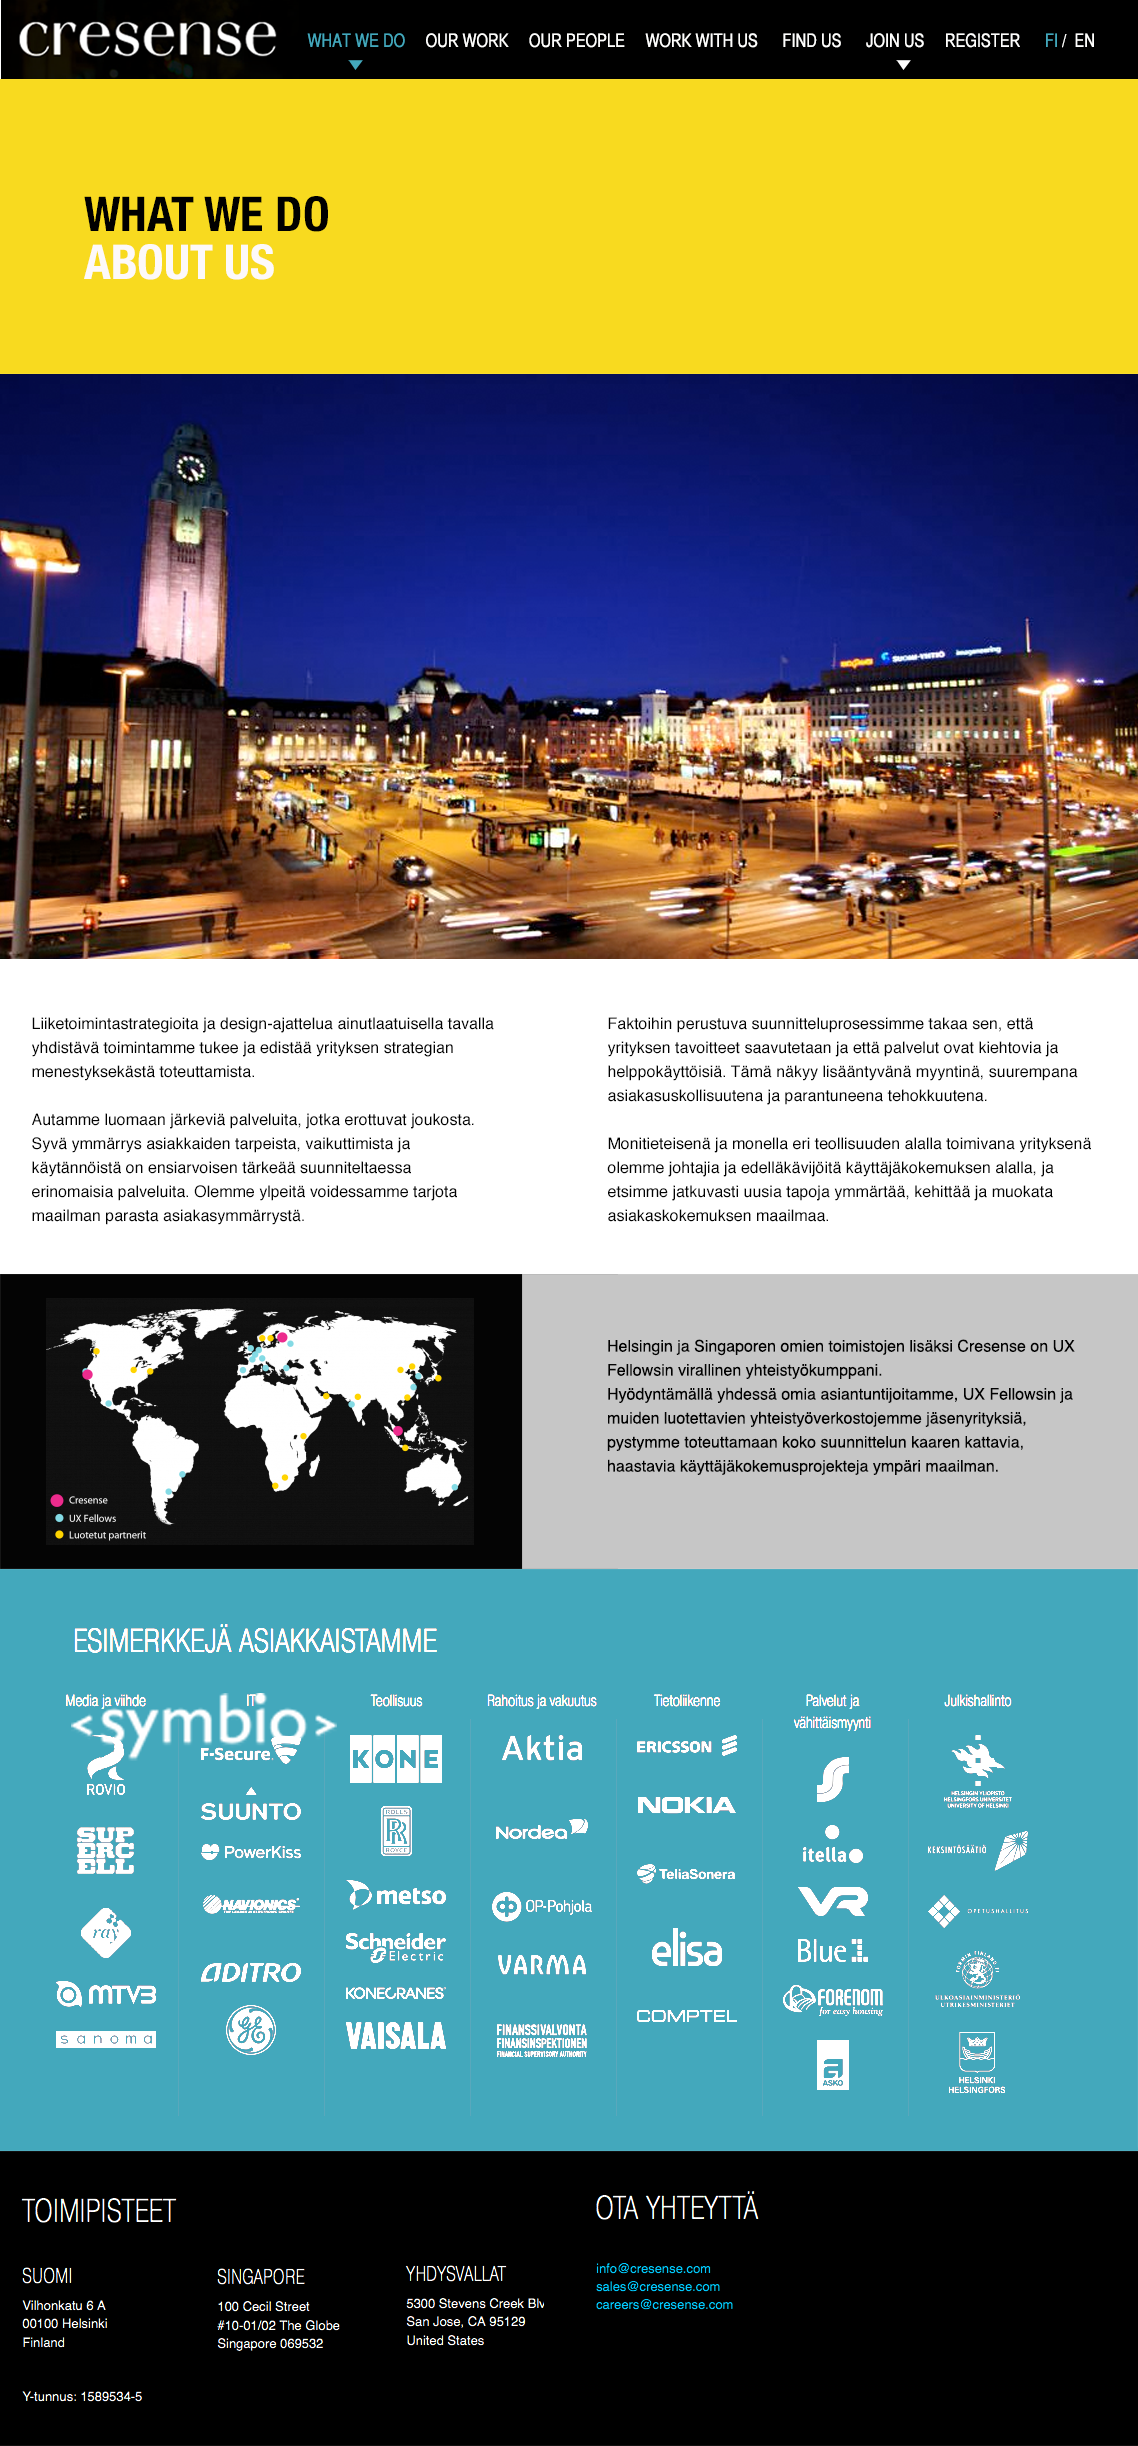
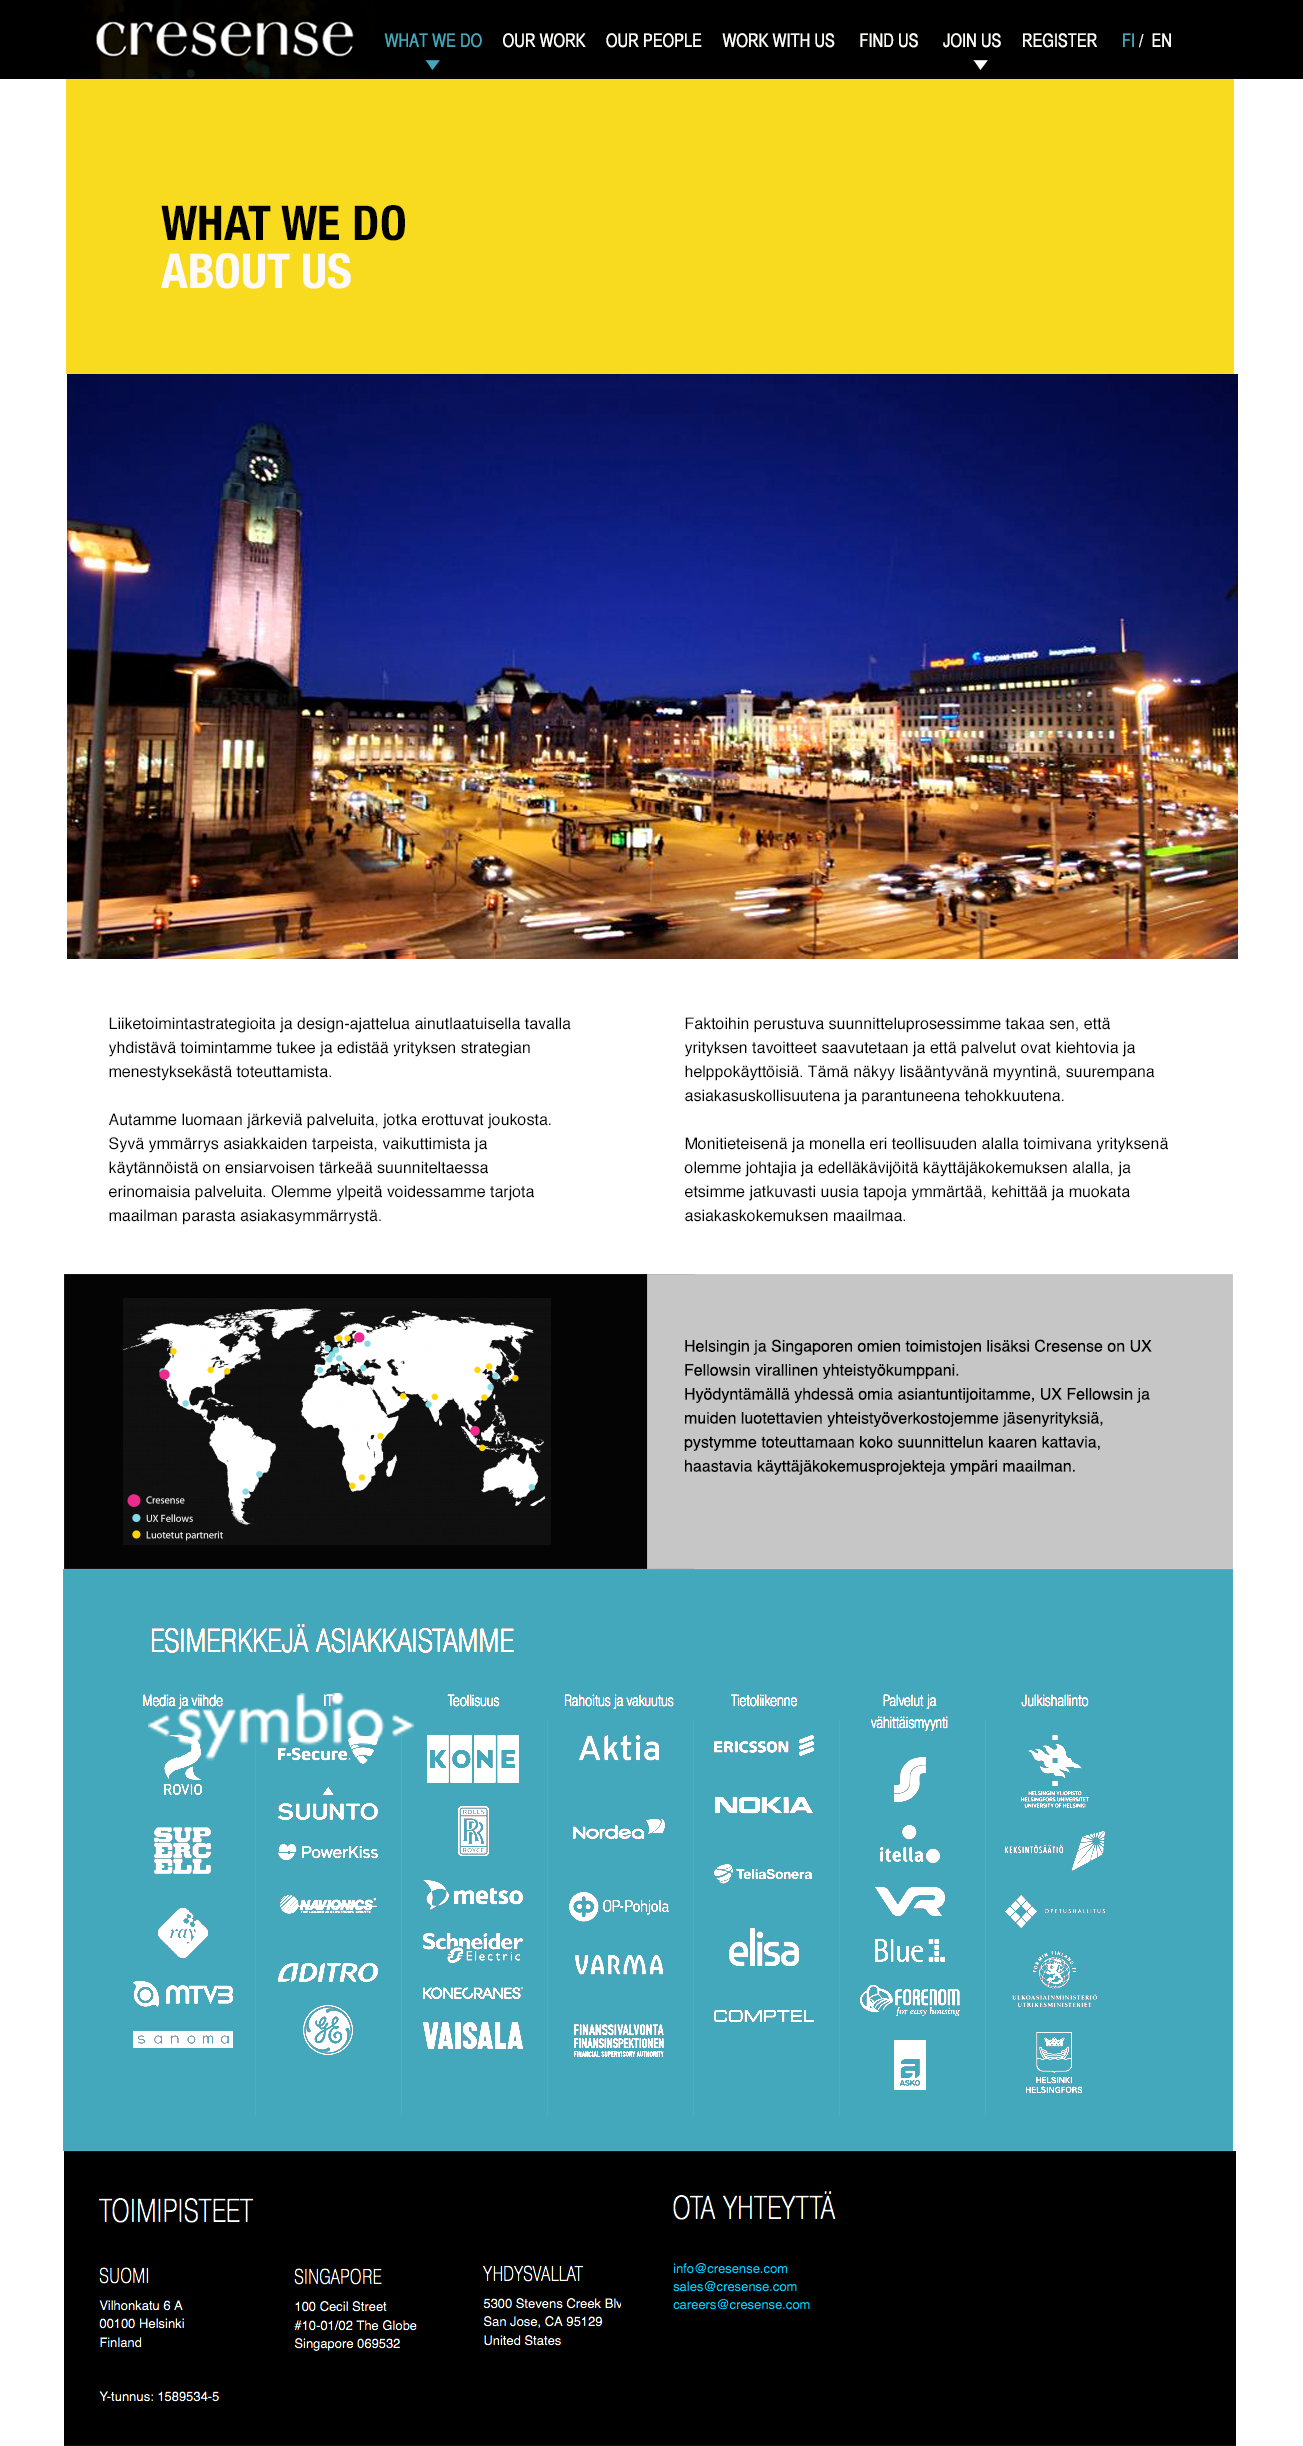
Little corrections
Width of container, 100% width menu bar

diff --git a/people.html b/people.html
@@ -15,10 +15,10 @@
 
 <map name="navmap">
 <!-- coordinates for linked areas -->
-<area shape="rect" coords="7,9,288,71" href="index.html" target="_top">
-<area shape="rect" coords="294,12,416,73" href="us.html" target="_top">
-<area shape="rect" coords="422,12,518,71" href="work.html" target="_top">
-<area shape="rect" coords="521,13,631,71" href="people.html" target="_top">
+<area shape="rect" coords="87,11,368,73" href="index.html" target="_top">
+<area shape="rect" coords="375,14,497,75" href="us.html" target="_top">
+<area shape="rect" coords="502,15,598,74" href="work.html" target="_top">
+<area shape="rect" coords="603,16,713,74" href="people.html" target="_top">
 
 </map>
 

diff --git a/work.html b/work.html
@@ -15,10 +15,10 @@
 
 <map name="navmap">
 <!-- coordinates for linked areas -->
-<area shape="rect" coords="7,9,288,71" href="index.html" target="_top">
-<area shape="rect" coords="294,12,416,73" href="us.html" target="_top">
-<area shape="rect" coords="422,12,518,71" href="work.html" target="_top">
-<area shape="rect" coords="521,13,631,71" href="people.html" target="_top">
+<area shape="rect" coords="78,10,359,72" href="index.html" target="_top">
+<area shape="rect" coords="370,12,492,73" href="us.html" target="_top">
+<area shape="rect" coords="496,14,592,73" href="work.html" target="_top">
+<area shape="rect" coords="596,14,706,72" href="people.html" target="_top">
 
 </map>
 

diff --git a/us.html b/us.html
@@ -15,10 +15,10 @@
 
 <map name="navmap">
 <!-- coordinates for linked areas -->
-<area shape="rect" coords="7,9,288,71" href="index.html" target="_top">
-<area shape="rect" coords="294,12,416,73" href="us.html" target="_top">
-<area shape="rect" coords="422,12,518,71" href="work.html" target="_top">
-<area shape="rect" coords="521,13,631,71" href="people.html" target="_top">
+<area shape="rect" coords="84,9,365,71" href="index.html" target="_top">
+<area shape="rect" coords="372,12,494,73" href="us.html" target="_top">
+<area shape="rect" coords="497,14,593,73" href="work.html" target="_top">
+<area shape="rect" coords="599,14,709,72" href="people.html" target="_top">
 
 </map>
 
